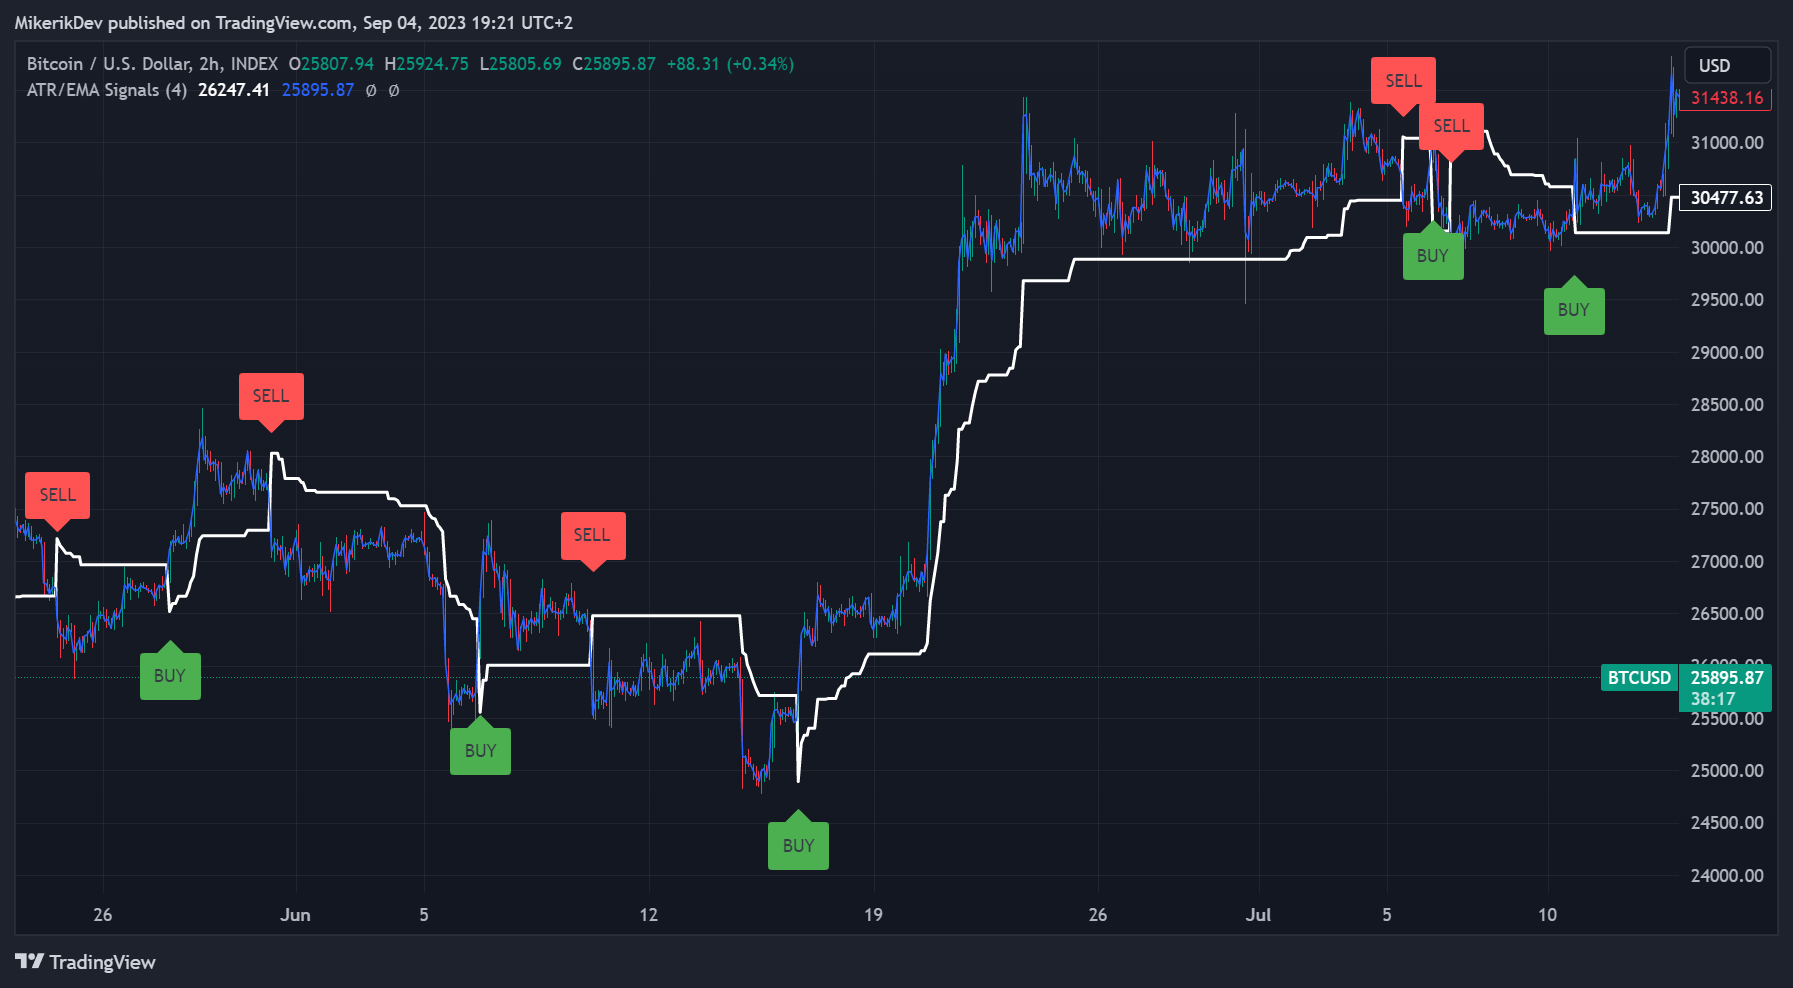
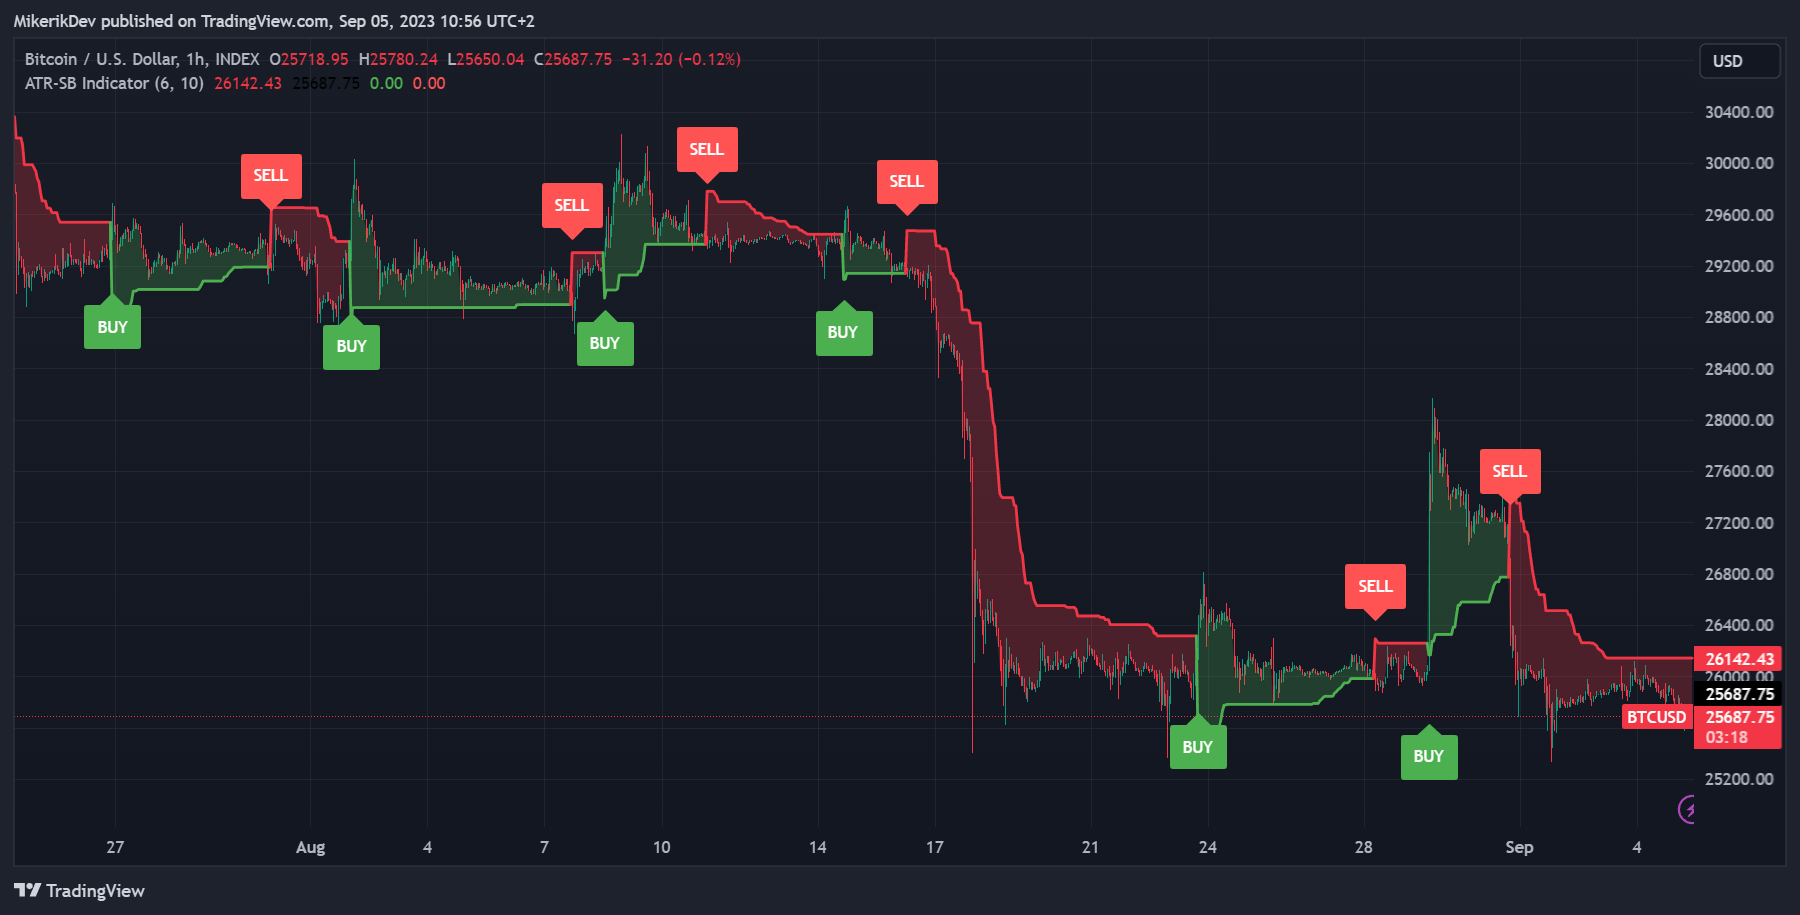
v1.2

diff --git a/ATR-SB Indicator/readme.md b/ATR-SB Indicator/readme.md
@@ -1,5 +1,5 @@
 # ATR-SB Indicator
-ATR-Sell/Buy Indicator which works based on calculating the "trend line" from each candle's close price, ATR (average true range) and complex formula connected to it. Sell/Buy signal starts to occur when the trend line crosses with EMA with a length of 1 (connecting closes of each candle). There is also a possibility to customize the risk that is being taken. If you want to do so, please edit that directly in the indicator settings in the Trading View. Do not change the default value of it in the code. The higher the number of RISK you set, the more intense the signals become.
+ATR-Sell/Buy Indicator which works based on calculating the "trend line" from each candle's close price, ATR (average true range) and complex formula connected to it. Sell/Buy signal starts to occur when the trend line crosses with each candle close price.
 
 ## Indicator Visualization
 ![Showcase](img.png)
@@ -7,6 +7,7 @@ ATR-Sell/Buy Indicator which works based on calculating the "trend line" from ea
 ## Change log
 * 1.0 - Initial push
 * 1.1 - Readme edited, Title of the indicator changed
+* 1.2 - Added filling, trendline edited, UI and tips added
 
 ## Credits
-This indicator is inspired by "UT Bot" indicator. My code basically works on it, but I created my version of it. If you want to get some more information about this indicator click ![here](https://theforexgeek.com/ut-bot-alerts-indicator/)
+This indicator is inspired by "UT Bot" indicator. My code basically works on it, but I created my version of it. If you want to get some more information about this indicator click [here](https://theforexgeek.com/ut-bot-alerts-indicator/)
